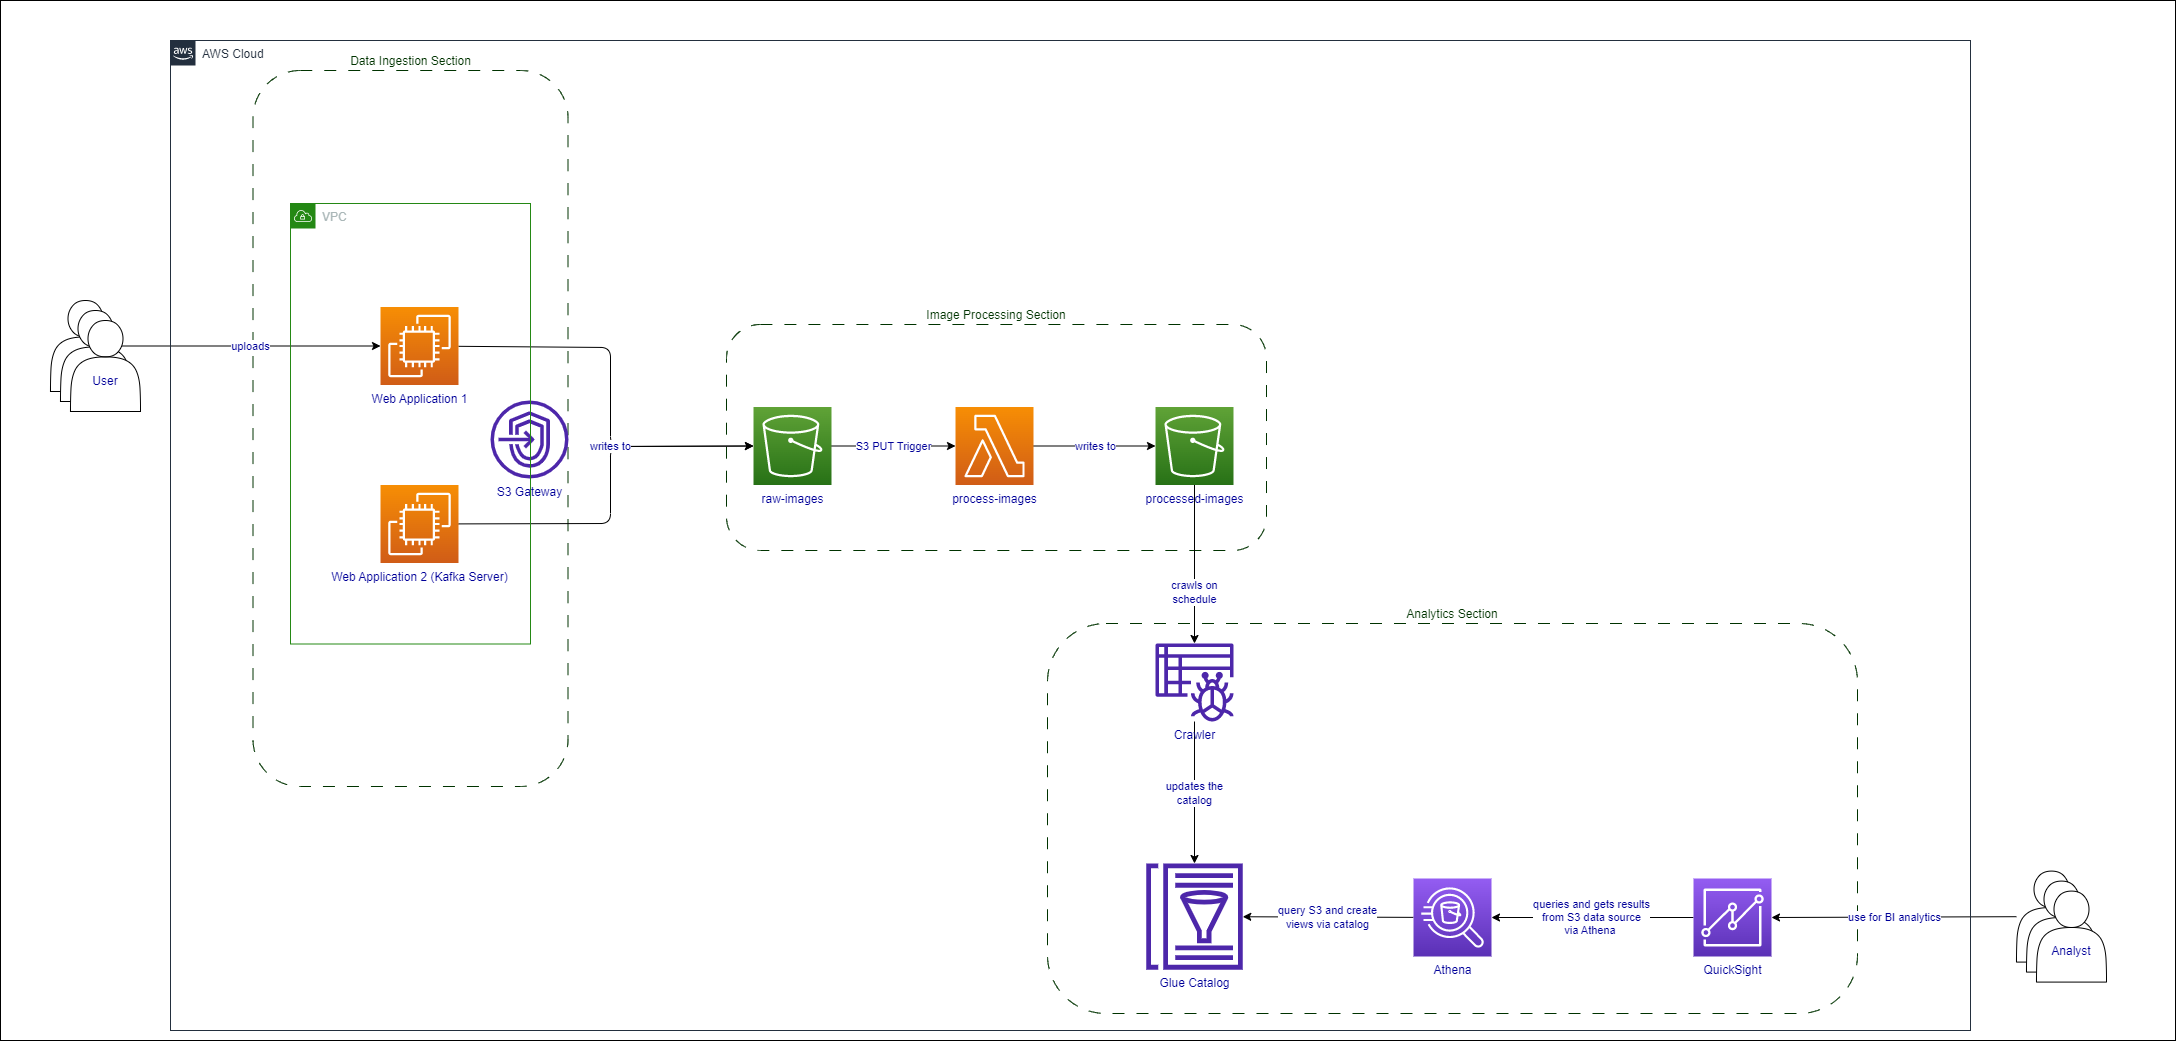
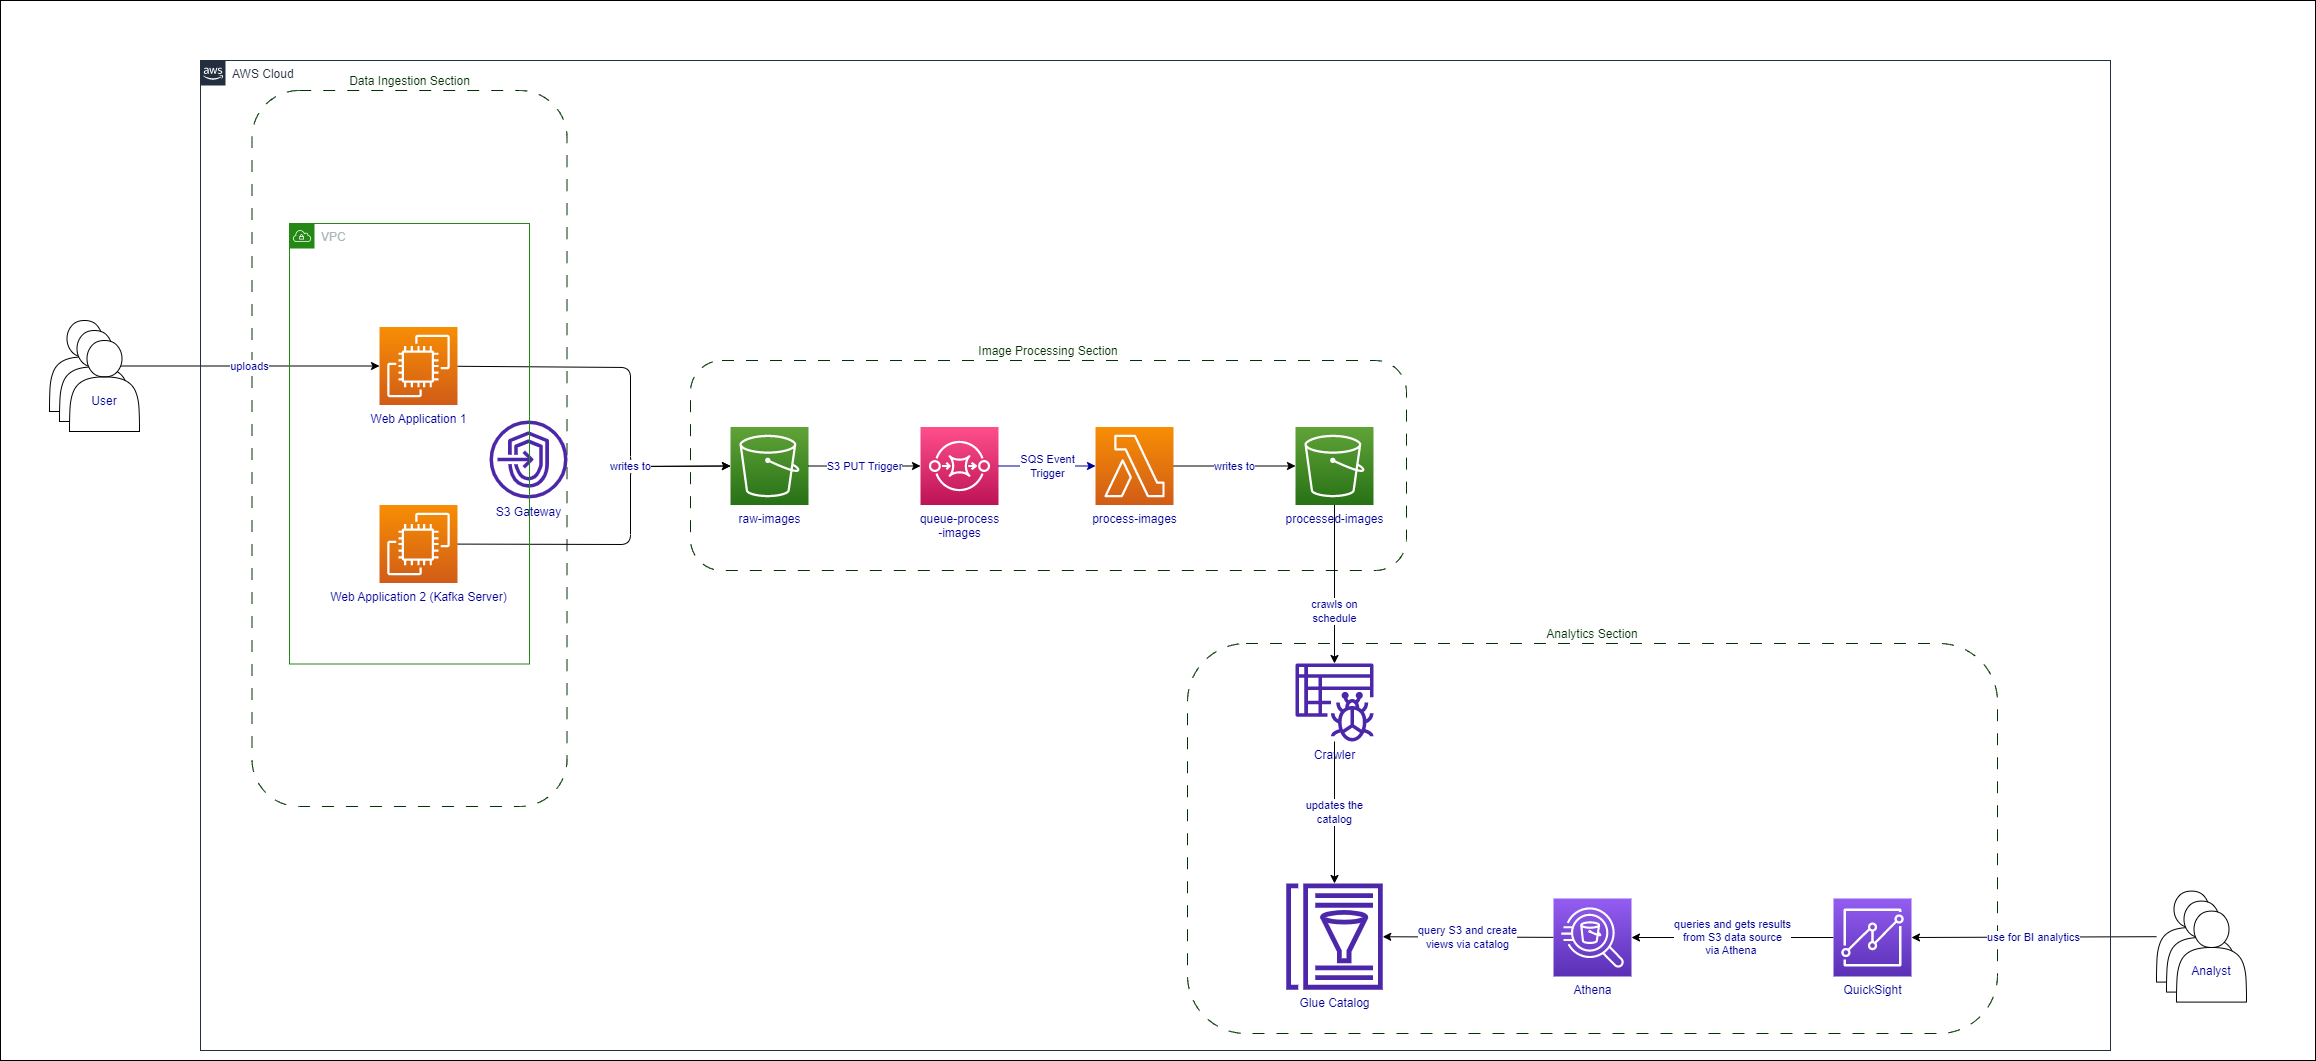
Updated the readme and architecture diagram for part 3 system design. Included SQS to help with decoupling the rate of lambdas fired.

diff --git a/part-3-system-design/README.md b/part-3-system-design/README.md
@@ -27,6 +27,7 @@ The architecture diagram can be found in the last section.
 ## Potential Cloud Services
 - VPC
 - EC2
+- SQS
 - Lambda
 - Fargate
 - S3
@@ -42,7 +43,7 @@ An EC2 hosted within a VPC (along with its subnets, security groups etc.) can be
 The web application hosting Kafka stream can be set up in another EC2 instance. This will allow the company's engineer who are required to self-manage the Kafka stream to have more control over the Kafka cluster. Similarly, the Kafka consumers can upload the image messages up to S3 bucket via AWS SDK. (Similarly, VPC Endpoint will be used)
 
 ### Prepared code for image processing
-For the image processing that requires to be hosted on cloud, we can deploy the code on Lambda. When raw images are sent to the raw-images bucket, Lambda will be triggered by S3 PUT event, process the data and output the processed images and metadata into the processed-images S3 bucket. (we could use 'images/' and 'metadata/' as prefixes in this output data to help with the BI portion later)
+For the image processing that requires to be hosted on cloud, we can deploy the code on Lambda. When raw images are sent to the raw-images bucket, a PUT event notification will be sent to the SQS queue, which in turn triggers the Lambda to process the data and output the processed images and metadata into the processed-images S3 bucket. (we could use 'images/' and 'metadata/' as prefixes in this output data to help with the BI portion later). SQS is used here to help us decouple and control the rate of firing the Lambda to avoid any possible hitting of the max lambda concurrency cap.
 
 Note: If the code that processes the images requires more than 10GB of RAM or more than 15mins of runtime, we would shift over to AWS Fargate instead.
 
